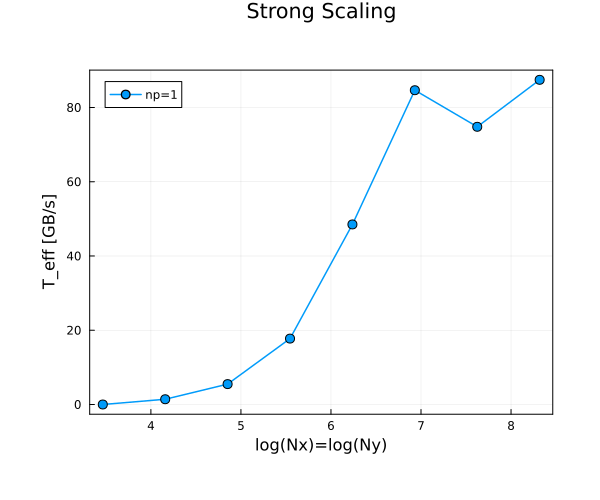
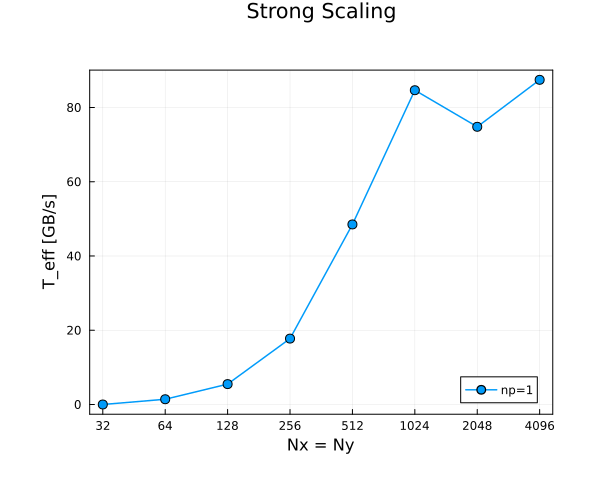
continue readme

diff --git a/README.md b/README.md
@@ -43,6 +43,8 @@ The [scripts](/scripts/) folder contains the following Julia scripts:
 
 We provide a [`Project.toml`](Project.toml) file which installs all requirements upon activation. Once all packages are installed, the main script can be launched from the command line as follows:
 
+(you will also need to uncomment the last line in this script)
+
 ```sh
 mpiexecjl -n 2 julia --project=. scripts/multi_process/StokesFlow2D_multixpu.jl
 ```
@@ -90,7 +92,7 @@ The material properties (carried by markers) are
 * $\mu$ : viscosity
 * $\rho$ : density,
 
-the other variables describe
+the other variables (grid or constant) describe
 * $V = [V_x, V_y]^T$ : velocity
 * $P$ : pressure
 * $g$ : earth gravity
@@ -99,7 +101,11 @@ the other variables describe
 The **Boundary conditions** implemented here are **free slip** on all four boundaries, i.e.
 
 $$
-\nabla V \cdot n = 0 \ \ \ \ \mathrm{on} \ \partial\Omega.
+V_x = 0, \ \ \frac{\partial V_y}{\partial x} = 0 \ \ \ \ \mathrm{on\ vertical\ boundaries}
+$$
+
+$$
+V_y = 0, \ \ \frac{\partial V_x}{\partial y} = 0 \ \ \ \ \mathrm{on\ horizontal\ boundaries}
 $$
 
 The **Initial Conditions**, i.e. the initial density and viscosity distributions, must also be specified. The function `exampleCall()` in the [`StokesSolver_multixpu.jl`](scripts/multi_process/StokesSolver_multixpu.jl) script, implementes a toy model of a plume rising in the earth's mantle. However, the low density and viscosity of the top 'air' causes some instability ('drunken sailor instability'), which is explained in the section [Details of Stokes Solver](#details-of-stokes-solver).
@@ -117,11 +123,11 @@ After initialization, the computation loop's content is rather simple:
 
 All the computation (the first three points) are implemented to fully run on either CPUs or GPUs.
 
-The computational grid, as well as possible marker locations for each process are summarized in the Fig.1:
+The local domains, as well as overlaps and possible marker locations for each process are summarized in Fig.1:
 
 | ![Domain](figures/domain.png) |
 | :-----------------------------------: |
-| Fig. 1: Local Domain and Marker Positions. |
+| Fig. 1: Local Domain and Marker Positions of the bottom right process. |
 
 ### Details of Marker Methods
 
@@ -173,9 +179,15 @@ The Stokes Solver is implemented in the `solveStokes!(..)` method in [`StokesSol
 * Kernel fusing and some optimizations, where applicable
 * Free surface stabilization, coupled with timestep computation
 
-This so-called **Free surface stabilization** implicitly advects the density field $\rho$ to the next timestep. This suppresses oscillations of the free surface, the so-called **drunken sailor instability**. Thus, especially the kernel computing the y-Stokes residual is significantly more involved.
+This so-called **Free surface stabilization** implicitly advects the density field $\rho$ to the next timestep. This suppresses oscillations of the free surface, the so-called **drunken sailor instability**. Thus, especially the kernel computing the y-Stokes residual is significantly more involved, but enables much larger timesteps. The following animations demonstrate the effect:
 
-TODO: insert gifs with and without free surface stabilization
+| ![drunkensailor](figures/without_stabilization.gif) |
+| :-----------------------------------: |
+| Fig. x: Markers with Drunken Sailor Instability. |
+
+| ![nodrunkensailor](figures/with_stabilization.gif) |
+| :-----------------------------------: |
+| Fig. x: Markers with Free Surface Stabilization. |
 
 ## Results and Discussion
 
@@ -192,7 +204,32 @@ TODO: insert gifs with and without free surface stabilization
     <figcaption>Fig. 3: Markers.<figcaption>
 <figure>
 
-TODO insert scaling plots
+### Visualizations
+
+TODO show some nice results
+
+### Scaling
+TODO explain computation time
+
+First, **strong scaling** on a single GPU was measured. `T_eff` might seem rather small, however keep in mind that the solver needs to access many more arrays than the ideal lower bound. Also, Kernel fusing is not always possible due to dependencies, which increases memory accesses as well.
+
+As expected, we can nicely observe rising effective throughput with increasing the grid size.
+
+| ![gridref](figures/strongScaling.png) |
+| :-----------------------------: |
+| Fig. 5: Strong Scaling on 1 GPU. |
+
+Second, **weak scaling** measurements were also performed with up to 64 processes, with the best local grid size. We can see that the runtime is never increased by more than `2.5%`, which is really nice. The communication/computation overlap must work well! Weirdly, even a reduced runtime can be observed with 4 ranks.
+
+| ![gridref](figures/weakScaling.png) |
+| :-----------------------------: |
+| Fig. 5: Highest, lowest and mean Relative Runtime of all ranks, on up to 64 GPUs. |
+
+
+### Convergence
+
+TODO make residual plot
+
 
 ## Open Issues and Further Work
 
@@ -201,6 +238,8 @@ TODO insert scaling plots
 * For the specific parameter combination of **both** `USE_GPU=true` **and** `--check-bounds=yes`, the results of the Stokes Solver are different, and thus the reference tests don't pass. This is very strange, especially since no bounds check ever fails.
 
 * To model actually interesting phenomena, the physics could be extended in various ways. For example, coupling with the heat equation, different heating mechanisms and heat-dependent changes in material properties could be implemented.
+
+* Advanced marker functionality such as injecting markers where there are too few, is not implemented.
 
 ## TODO
 
